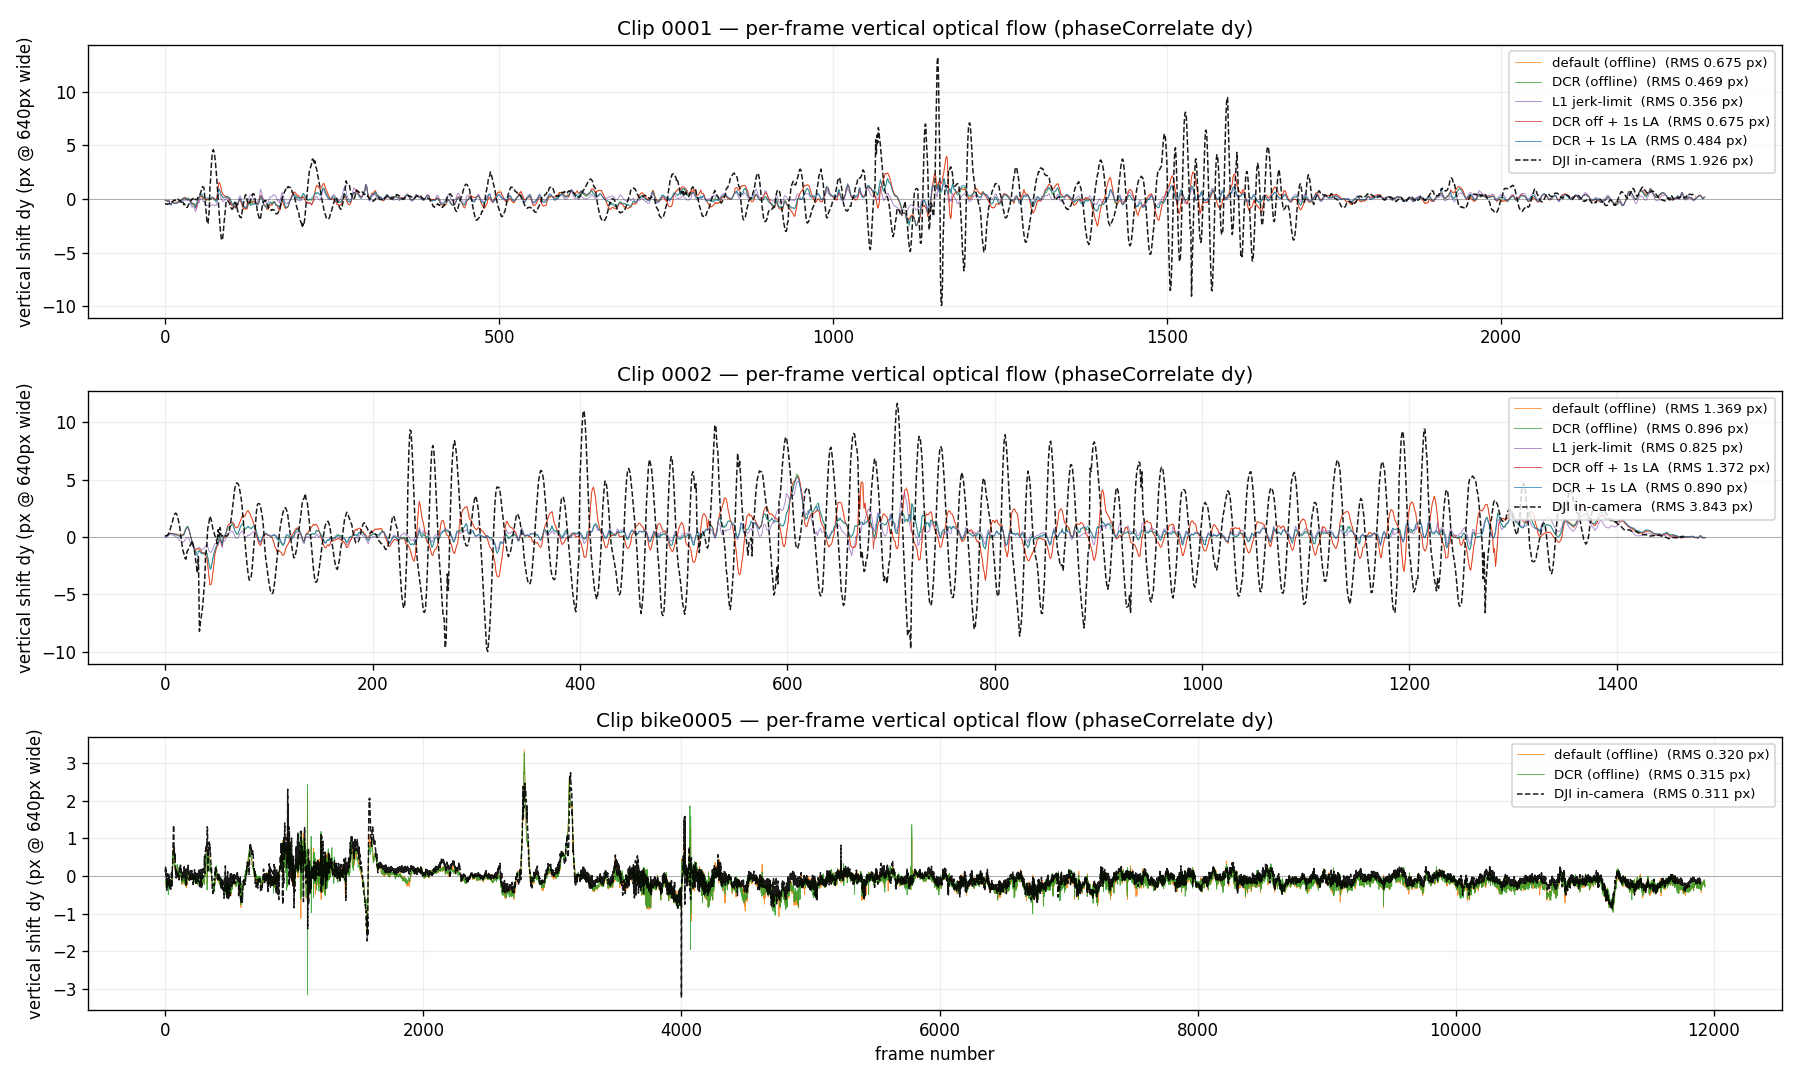
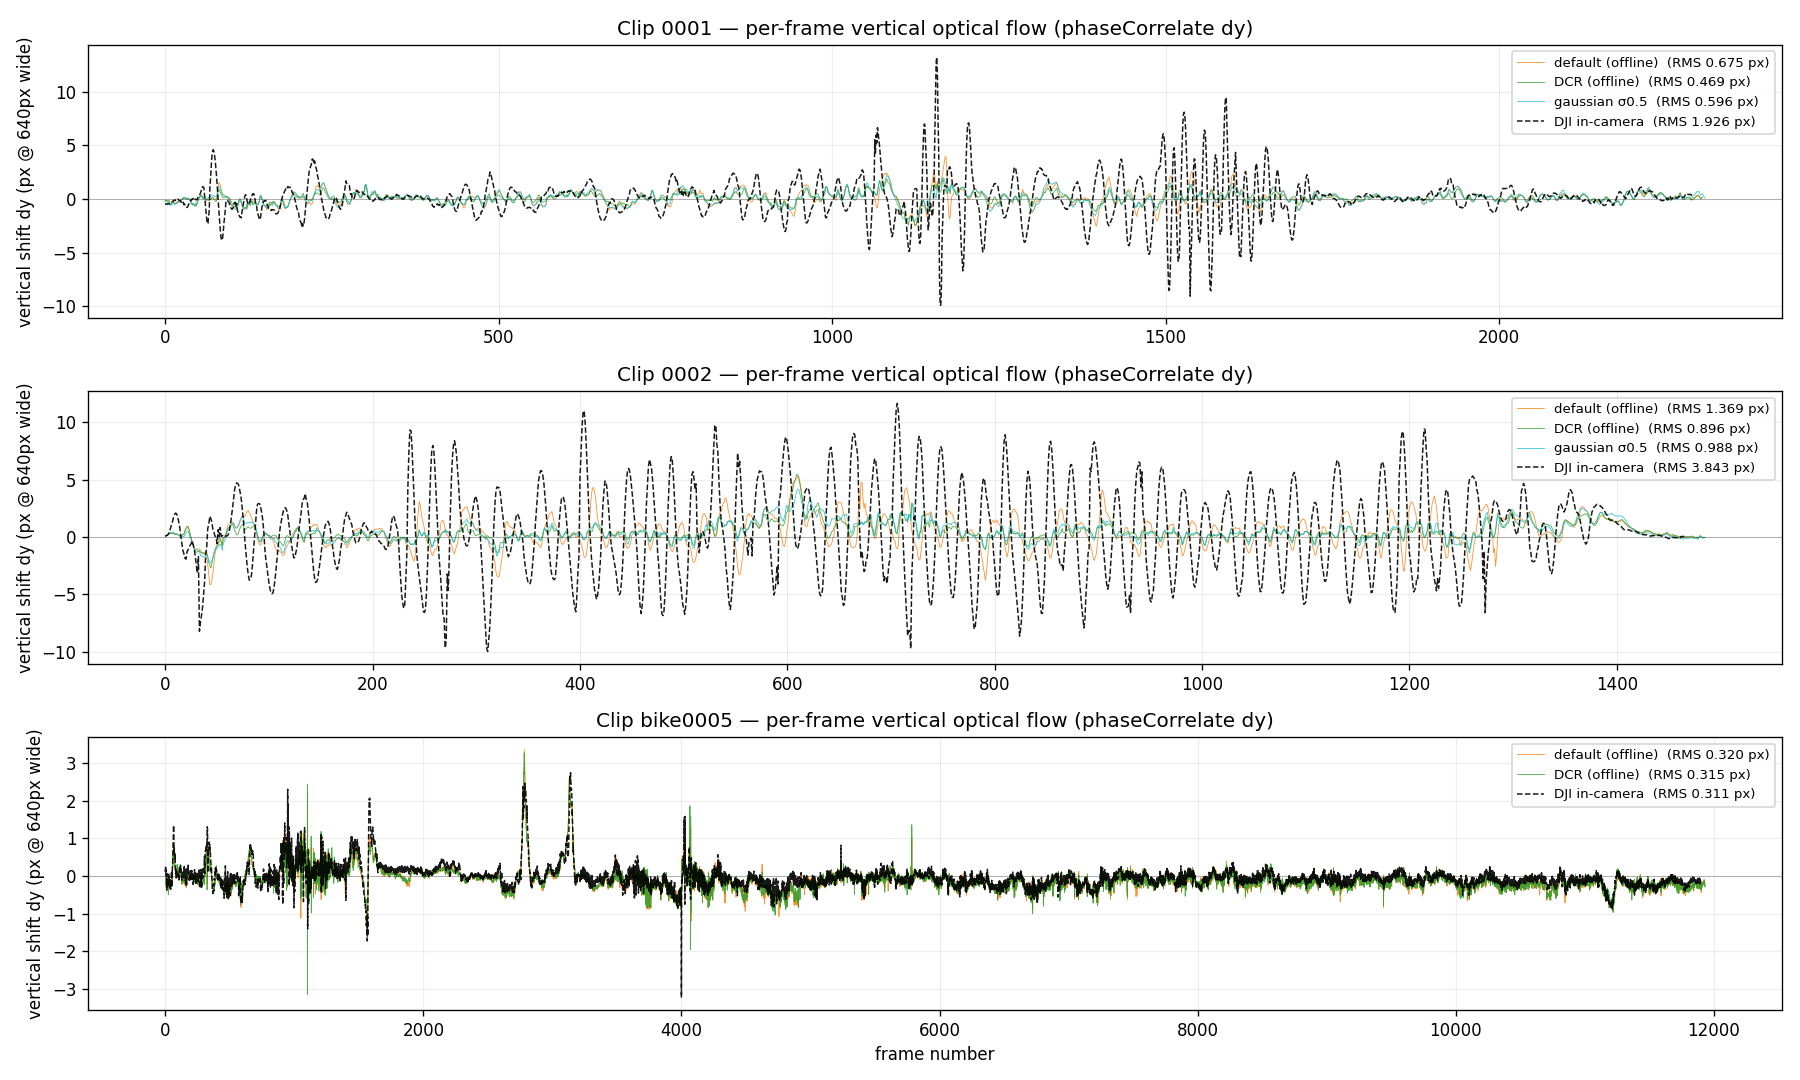
figures: simplify run subplots — default/DCR/gaussian vs DJI
Per review of the reportable figure: the five-config run subplots were noisy; keep
one DCR line to show its effectiveness and add the gaussian s0.5 result (run0001
0.596, run0002 0.988 px — between default and DCR, matching EVALUATION_SUMMARY §3).
Run subplots now: default (orange) / DCR (green) / gaussian s0.5 (cyan) / DJI
(black dashed). Bike subplot unchanged (default/DCR + DJI).

Tool: vertical_flow_compare.py gains --configs (filter pattern suffixes) and
--series now ADDS lines to pattern clips instead of replacing them; reproduce
command in figures/README updated.

Claude-Session: https://claude.ai/code/session_01AJzF16XXvvuX3TJCKcokCX

diff --git a/tools/vertical_flow_compare.py b/tools/vertical_flow_compare.py
@@ -26,6 +26,9 @@ def main():
                     default=None,
                     help="explicit extra series, repeatable: --series bike0005 DCR /path/x.mp4. "
                          "Adds subplots for clips outside the --dir naming pattern.")
+    ap.add_argument("--configs", default=None,
+                    help="comma-separated config SUFFIXES to include from the --dir pattern "
+                         "(e.g. ',_dcr' = default+DCR only); default = all")
     ap.add_argument("--cache", default=None, metavar="DIR",
                     help="cache dir for per-video dy arrays (skip re-decoding on plot iterations)")
     ap.add_argument("-o", "--out", default="vertical_flow_compare.png")
@@ -41,14 +44,18 @@ def main():
         ("_la1",     "DCR off + 1s LA",      "#d62728"),
         ("_dcr_la1", "DCR + 1s LA",          "#1f77b4"),
     ]
+    if args.configs is not None:
+        keep = set(args.configs.split(","))
+        configs = [c for c in configs if c[0] in keep]
 
     # Per-clip extra reference clips from --ref (e.g. DJI in-camera stabilized takes).
     refs = {}
     for clip, path in (args.ref or []):
         refs[clip] = (path, "DJI in-camera", "#000000")
 
-    # Explicit extra series (--series) for clips whose files don't follow the --dir pattern.
-    # New clips are appended as additional subplots in first-appearance order.
+    # Explicit extra series (--series). For a pattern clip (0001/0002) they ADD lines to its
+    # subplot; for a new clip name they create an additional subplot (first-appearance order).
+    pattern_clips = list(clips)
     extra = {}   # clip -> [(label, path), ...]
     for clip, label, path in (args.series or []):
         extra.setdefault(clip, []).append((label, path))
@@ -75,7 +82,7 @@ def main():
 
     series = {}
     for clip in clips:
-        if clip not in extra:   # pattern-based configs only for --dir-style clips
+        if clip in pattern_clips:
             for suffix, label, _c in configs:
                 fn = f"{clip}_D_cpp_stabilized{suffix}.mp4"
                 p = os.path.join(args.dir, fn)
@@ -108,14 +115,11 @@ def main():
     if len(clips) == 1:
         axes = [axes]
     for ax, clip in zip(axes, clips):
-        if clip in extra:
-            plot_list = []
-            for label, _p in extra[clip]:
-                c = label_color.get(label) or (spare.pop(0) if spare else "#444444")
-                label_color[label] = c
-                plot_list.append(("x", label, c))
-        else:
-            plot_list = list(configs)
+        plot_list = list(configs) if clip in pattern_clips else []
+        for label, _p in extra.get(clip, []):
+            c = label_color.get(label) or (spare.pop(0) if spare else "#444444")
+            label_color[label] = c
+            plot_list.append(("x", label, c))
         if clip in refs:
             rp, rlabel, rcolor = refs[clip]
             plot_list = plot_list + [(None, rlabel, rcolor)]

diff --git a/cpp_core/figures/README.md b/cpp_core/figures/README.md
@@ -14,7 +14,7 @@ All commands are run from the **repo root**. On a headless box prefix Python wit
 |---|---|---|
 | `vertical_flow_la1_vs_dcr.png` | `tools/vertical_flow_compare.py` | per-frame global vertical shift `dy` (`cv2.phaseCorrelate`) — DCR off vs on |
 | `vertical_flow_all_configs.png` | `tools/vertical_flow_compare.py` | same, all five configs overlaid |
-| `vertical_flow_all_configs_vs_dji.png` | `tools/vertical_flow_compare.py` | same, plus a DJI in-camera reference per subplot — run 0001/0002 **and bike 0005** (default/DCR via `--series`; default = orange, DJI = black dashed) |
+| `vertical_flow_all_configs_vs_dji.png` | `tools/vertical_flow_compare.py` | dy vs DJI reference per subplot — run 0001/0002 (default/DCR/gaussian σ0.5) + bike 0005 (default/DCR); default = orange, DJI = black dashed |
 | `black_border_stats.png` | `tools/black_border_stats.py` | edge-connected near-black area per frame (mean/max + time series) |
 | `zoom_vs_maxzoom.png` | `tools/zoom_vs_maxzoom.py` | required zoom (`1/raw_fov`) vs applied zoom (`1/fov`) vs the `max_zoom` clamp |
 | `rust_vs_cpp_default_dy.png` | `tools/rust_vs_cpp_dy.py` | `dy` of Rust vs C++ **default** renders, identical params — port-parity check |
@@ -113,9 +113,14 @@ done
 ```sh
 CPP_OUT="$RUN/cpp_out"
 
-# Vertical shake — all configs + optional DJI in-camera reference per clip (--ref).
-# Clips outside the --dir naming pattern (e.g. bike renders) are added with --series.
+# Vertical shake vs DJI reference (--ref per clip). --configs filters the --dir pattern
+# suffixes ("" = default, "_dcr" = DCR, ...); --series adds explicit files, either extra
+# lines on a pattern clip (e.g. the gaussian run renders) or a whole new subplot (bike).
+# --cache makes plot iterations instant (per-video dy .npy).
 MPLBACKEND=Agg python3 tools/vertical_flow_compare.py --dir "$CPP_OUT" --width 640 \
+  --cache /tmp/dycache --configs ",_dcr" \
+  --series 0001 "gaussian σ0.5" "$CPP_OUT/0001_D_cpp_gauss05.mp4" \
+  --series 0002 "gaussian σ0.5" "$CPP_OUT/0002_D_cpp_gauss05.mp4" \
   --ref 0001 "$DJI_REF_DIR/DJI_20260625014752_0002_D.MP4" \
   --ref 0002 "$DJI_REF_DIR/DJI_20260625014927_0004_D.MP4" \
   --series bike0005 "default (offline)" "$BIKE_DIR/0005_D_cpp_default.mp4" \
